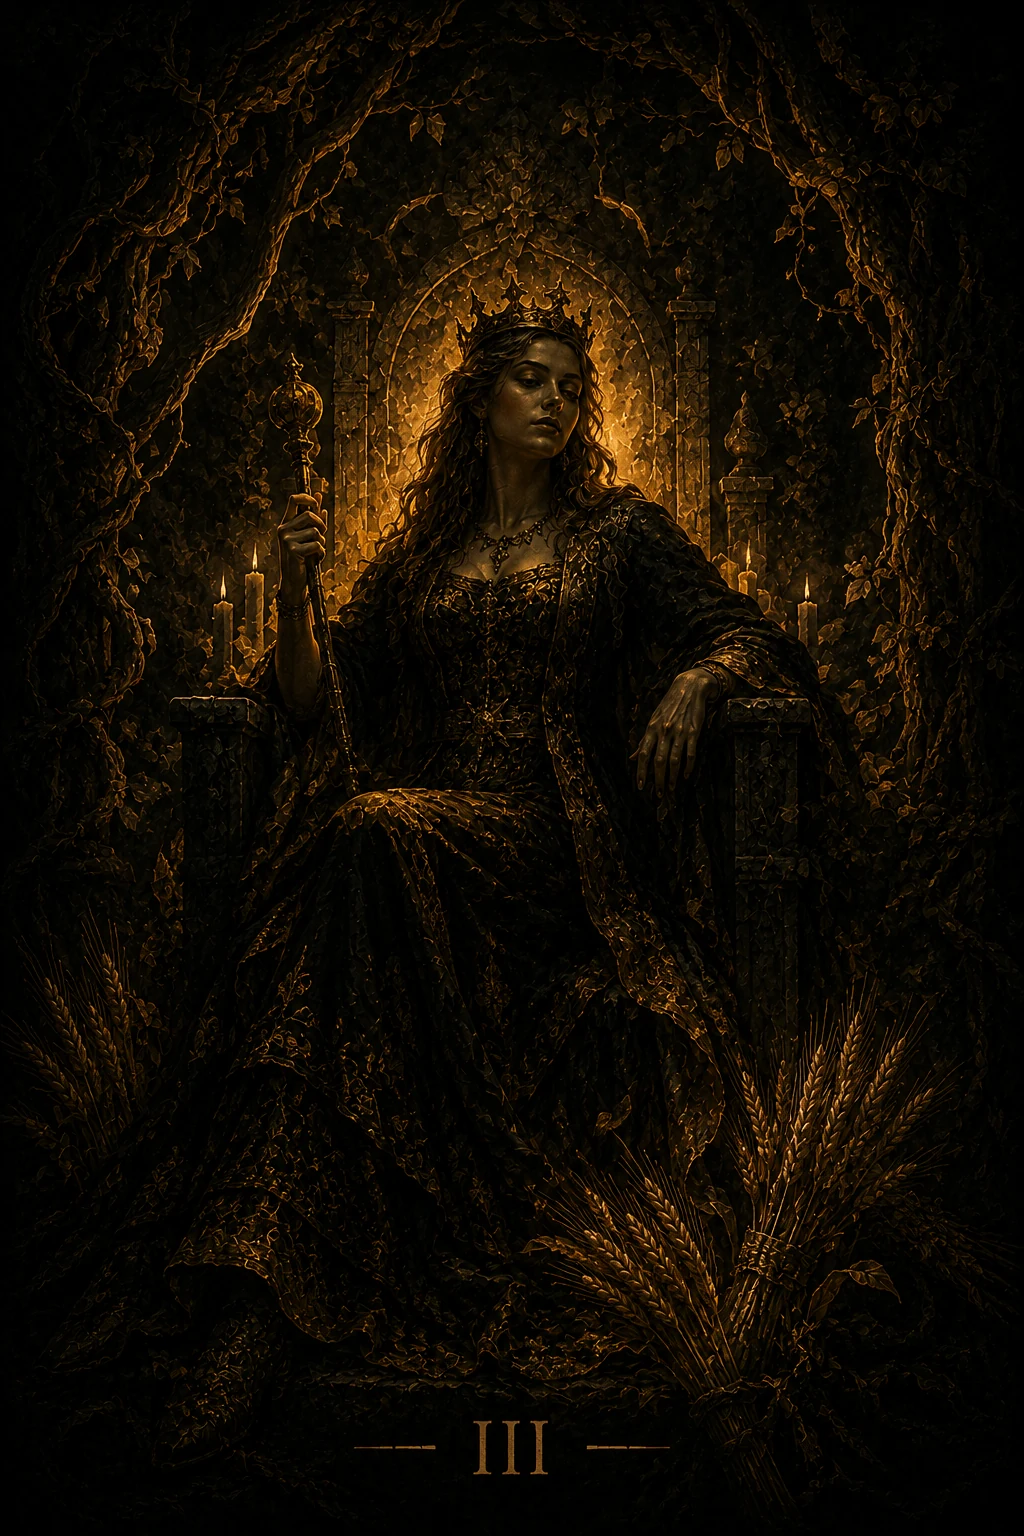
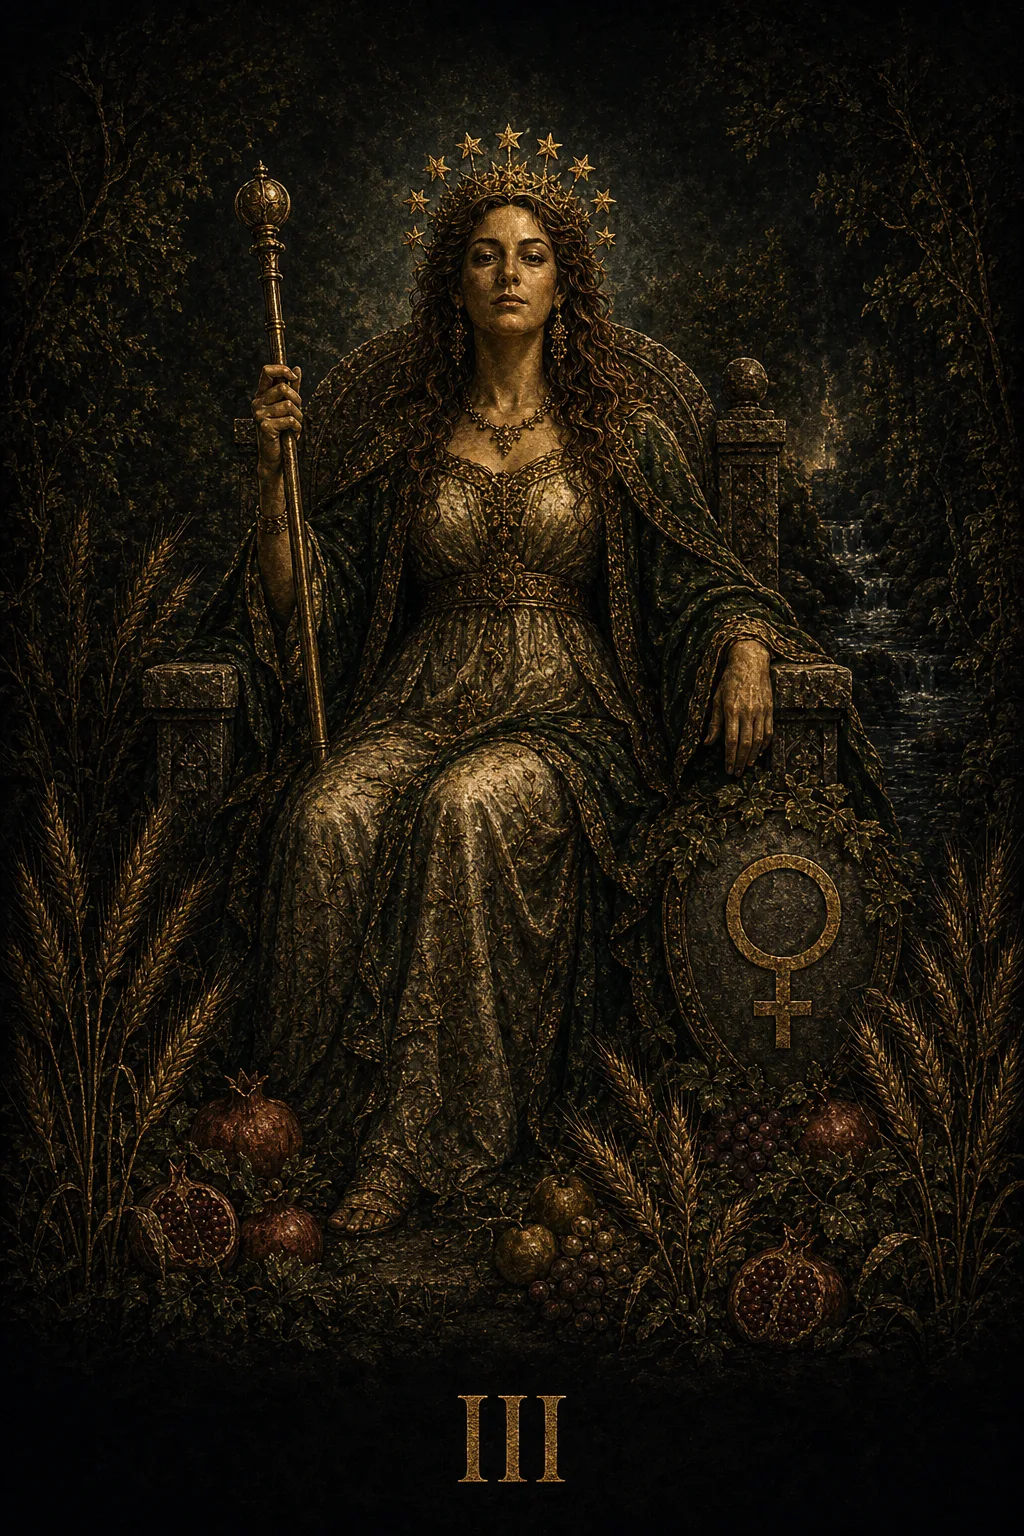
Add Seven of Pentacles and refresh Empress

diff --git a/public/assets/cards.js b/public/assets/cards.js
@@ -243,7 +243,7 @@ export const TAROT_CARDS = [
     name: 'Императрица',
     archetype: 'забота / изобилие',
     character: 'человек в окружении природы и тепла',
-    description: 'Позаботься о себе. Сегодня ресурс важнее скорости.',
+    description: 'Сегодня важнее не скорость, а живое состояние. Позаботься о теле, доме или деле так, чтобы у него снова появились силы расти.',
     streetName: 'Мамка ресурса',
     streetText: 'Ты чё себя так насилуешь. Тормозни, выдохни — ты не на зоне.',
     visualHint: 'природа, плоды, мягкие формы, тепло и изобилие',
@@ -254,45 +254,48 @@ export const TAROT_CARDS = [
     result: {
       label: 'Карта дня',
       title: 'Императрица',
-      titleMeta: 'день заботы, тепла и восстановления сил',
+      titleMeta: 'день заботы и живого ресурса',
       tags: ['Старший аркан'],
       meaningLabel: 'Что это значит сегодня',
       dayVariants: [
         {
           preview: [
-            'Мора говорит: сегодня не выжимай из себя последнее. Если ты устал, плохо ел, мало спал или давно живёшь на одном терпении, Императрица просит начать именно с этого.',
-            'Эта карта про простую заботу: поесть, отдохнуть, навести вокруг себя немного порядка, вернуть себе ощущение тепла. Не как награду за подвиг, а как нормальную человеческую необходимость.',
+            'На карте Императрица сидит среди природы, зрелых плодов и мягкого света. Её сила не в спешке и не в контроле, а в умении создавать условия, где жизнь может расти.',
+            'Мора советует сегодня начать с самого простого: тело, еда, сон, дом, тишина, тепло. Не как награду после подвига, а как основу, без которой дальше всё делается через силу.',
           ],
           full: [
-            'Мора говорит: сегодня не выжимай из себя последнее. Если ты устал, плохо ел, мало спал или давно живёшь на одном терпении, Императрица просит начать именно с этого.',
-            'Эта карта про простую заботу: поесть, отдохнуть, навести вокруг себя немного порядка, вернуть себе ощущение тепла. Не как награду за подвиг, а как нормальную человеческую необходимость.',
-            'В классическом таро Императрица сидит среди природы и зрелых плодов. Её сила не в том, чтобы всё контролировать, а в том, чтобы давать жизни расти.',
-            'Сегодня не обязательно ускоряться. Лучше спроси себя честно: что меня сейчас истощает, а что возвращает в живое состояние? Ответ может быть очень бытовым, и от этого не менее важным.',
+            'На карте Императрица сидит среди природы, зрелых плодов и мягкого света. Её сила не в спешке и не в контроле, а в умении создавать условия, где жизнь может расти.',
+            'Мора советует сегодня начать с самого простого: тело, еда, сон, дом, тишина, тепло. Не как награду после подвига, а как основу, без которой дальше всё делается через силу.',
+            'В классическом таро Императрица связана с землёй, плодородием и заботой, которая не торопит рост. Плод появляется не потому, что его заставили, а потому что у него были вода, свет и время.',
+            'Для тебя сегодня это значит: не выжимай из себя результат любой ценой. Посмотри, где тебе нужны нормальные условия, а не ещё один приказ самому себе собраться.',
           ],
+          share: 'Мора говорит: сегодня начни с живого состояния. Тело, дом, еда, сон и тепло — не награда, а основа.',
         },
         {
           preview: [
-            'Сегодня Императрица советует заняться тем, что делает жизнь теплее и устойчивее. Это может быть дом, еда, тело, близкий разговор или дело, которое давно ждёт спокойных рук.',
-            'Не всё важное выглядит как большой рывок. Иногда день становится лучше от простых вещей: прибрать стол, приготовить нормальный ужин, закончить маленькую часть работы без надрыва.',
+            'Императрица приходит в день, когда важное может просить не рывка, а ухода. Не всё растёт от давления; иногда дело оживает, когда ему дают внимание, место и спокойные руки.',
+            'Мора советует посмотреть, что рядом с тобой давно ждёт заботы: проект, тело, дом, отношения или маленькая часть жизни, которую ты всё время откладываешь на потом.',
           ],
           full: [
-            'Сегодня Императрица советует заняться тем, что делает жизнь теплее и устойчивее. Это может быть дом, еда, тело, близкий разговор или дело, которое давно ждёт спокойных рук.',
-            'Не всё важное выглядит как большой рывок. Иногда день становится лучше от простых вещей: прибрать стол, приготовить нормальный ужин, закончить маленькую часть работы без надрыва.',
-            'В канонах таро Императрица связана с землёй, плодородием и всем, что растёт не сразу, а постепенно. Она напоминает: то, чему ты даёшь внимание и заботу, со временем становится сильнее.',
-            'Мора бы сказала: не тяни росток за стебель. Сделай для него землю, воду и свет. В обычной жизни это значит — дай делу нормальные условия, а не только требуй от себя результата.',
+            'Императрица приходит в день, когда важное может просить не рывка, а ухода. Не всё растёт от давления; иногда дело оживает, когда ему дают внимание, место и спокойные руки.',
+            'Мора советует посмотреть, что рядом с тобой давно ждёт заботы: проект, тело, дом, отношения или маленькая часть жизни, которую ты всё время откладываешь на потом.',
+            'На классической карте вокруг Императрицы много земных символов: поле, плоды, мягкая ткань, спокойная полнота. Это не роскошь ради красоты, а знак среды, в которой появляется результат.',
+            'Сегодня полезно не требовать от ростка быть деревом. Сделай одну вещь, которая улучшит условия: убери лишнее, договорись мягче, приготовь нормальную еду, доделай маленький участок без надрыва.',
           ],
+          share: 'Мора советует: не требуй от ростка быть деревом. Сегодня дай важному нормальные условия для роста.',
         },
         {
           preview: [
-            'День может попросить от тебя мягкости: к себе, к близким, к человеку рядом, которому сейчас тяжело. Но Императрица не просит становиться спасателем для всех.',
-            'Мора считает: настоящая забота не должна оставлять тебя пустым. Помоги там, где можешь, но не отдавай последние силы только потому, что привык быть удобным.',
+            'Сегодня может понадобиться мягкость: к себе, к близкому человеку, к тому месту жизни, которое долго держалось на терпении. Но Императрица не просит тебя становиться бесконечным источником для всех.',
+            'Мора считает: настоящая забота не должна оставлять тебя пустым. Поддержи там, где можешь, но не отдавай последние силы только потому, что привык быть удобным.',
           ],
           full: [
-            'День может попросить от тебя мягкости: к себе, к близким, к человеку рядом, которому сейчас тяжело. Но Императрица не просит становиться спасателем для всех.',
-            'Мора считает: настоящая забота не должна оставлять тебя пустым. Помоги там, где можешь, но не отдавай последние силы только потому, что привык быть удобным.',
-            'Классическая Императрица — это не слабость и не бесконечная доброта без границ. Это взрослая сила, которая умеет питать жизнь и при этом знает цену своему ресурсу.',
-            'Сегодня можно поддержать словом, делом, присутствием. Но если внутри уже пусто, сначала верни себе опору. Из выжатого человека редко выходит тёплая помощь.',
+            'Сегодня может понадобиться мягкость: к себе, к близкому человеку, к тому месту жизни, которое долго держалось на терпении. Но Императрица не просит тебя становиться бесконечным источником для всех.',
+            'Мора считает: настоящая забота не должна оставлять тебя пустым. Поддержи там, где можешь, но не отдавай последние силы только потому, что привык быть удобным.',
+            'В канонах таро Императрица — это не слабость и не “быть хорошей для всех”. Это взрослая тёплая сила: она питает жизнь, но не уничтожает себя ради чужого роста.',
+            'Для тебя сегодня это значит: проверь, где забота идёт от сердца, а где уже стала обязанностью без конца. Иногда самый честный жест — помочь мягко, но оставить себе достаточно воздуха.',
           ],
+          share: 'Мора говорит: забота не должна оставлять тебя пустым. Сегодня помогай мягко, но оставь себе воздух.',
         },
       ],
       streetVariants: [
@@ -2218,6 +2221,84 @@ export const TAROT_CARDS = [
           'Кто тут всё время даёт, а кто только ждёт? Посмотри честно.',
           'Не надо быть жёстким. Но и кормить чужую привычку брать тоже не надо.',
           'Помощь должна помогать, а не делать из тебя банкомат.',
+        ],
+      ],
+    },
+  },
+  {
+    id: 'seven-of-pentacles',
+    name: 'Семёрка Пентаклей',
+    archetype: 'терпение / оценка результата',
+    character: 'садовник опирается на инструмент и смотрит на семь пентаклей на лозе',
+    description: 'Не торопи результат. Сегодня важно увидеть, что уже растёт, и понять, где нужно терпение, а где честная правка.',
+    streetName: 'Ждать урожай',
+    streetText: 'Не дёргай росток каждые пять минут. Посмотри, что уже выросло, и реши, куда дальше вкладываться.',
+    visualHint: 'садовник, длинный инструмент, семь пентаклей на лозе, пауза перед урожаем',
+    image: 'assets/cards/seven-of-pentacles.webp',
+    num: 'VII',
+    symbol: '◆',
+    result: {
+      label: 'Карта дня',
+      title: 'Семёрка Пентаклей',
+      titleMeta: 'день терпения и честной оценки',
+      tags: ['Младший аркан', 'Пентакли'],
+      meaningLabel: 'Что это значит сегодня',
+      dayVariants: [
+        {
+          preview: [
+            'Сегодня не стоит торопить результат. Семёрка Пентаклей показывает человека, который остановился перед растением с семью пентаклями и смотрит, что уже выросло из его труда.',
+            'Мора советует: не дёргай процесс только потому, что он ещё не дошёл до финала. Посмотри, где уже есть рост, и дай ему время стать зрелым.',
+          ],
+          full: [
+            'Сегодня не стоит торопить результат. Семёрка Пентаклей показывает человека, который остановился перед растением с семью пентаклями и смотрит, что уже выросло из его труда.',
+            'Мора советует: не дёргай процесс только потому, что он ещё не дошёл до финала. Посмотри, где уже есть рост, и дай ему время стать зрелым.',
+            'В классическом таро эта карта не про бездействие, а про паузу после вложенных усилий. Работник опирается на инструмент: он не бросил дело, он оценивает, что делать дальше.',
+            'Для тебя сегодня это значит: проверь, что требует терпения, а что действительно просит правки. Не всё медленное сломано. Иногда лучший шаг — не ускорять, а бережно поддержать то, что уже укоренилось.',
+          ],
+          share: 'Мора говорит: не всё медленное сломано. Сегодня посмотри, что уже растёт, и не торопи результат.',
+        },
+        {
+          preview: [
+            'Сегодня может появиться усталость от того, что ты давно вкладываешь силы, а отдача ещё не выглядит достаточно большой. Семёрка Пентаклей напоминает: рост часто виден позже, чем работа.',
+            'Мора считает, что день подходит для честной проверки. Что продолжать? Что подкормить вниманием? А где ты ждёшь плодов от того, во что уже перестал вкладываться?',
+          ],
+          full: [
+            'Сегодня может появиться усталость от того, что ты давно вкладываешь силы, а отдача ещё не выглядит достаточно большой. Семёрка Пентаклей напоминает: рост часто виден позже, чем работа.',
+            'Мора считает, что день подходит для честной проверки. Что продолжать? Что подкормить вниманием? А где ты ждёшь плодов от того, во что уже перестал вкладываться?',
+            'На карте человек стоит перед кустом с пентаклями и не делает резких движений. Он смотрит не на мечту, а на конкретный результат: сколько выросло, что держится, где ещё нужно время.',
+            'Сегодня полезно отделить усталость от настоящего сигнала остановиться. Если дело живое, не бросай его в момент тишины. Если оно давно не отвечает, признай это спокойно и забери силы обратно.',
+          ],
+          share: 'Мора советует: отдели усталость от настоящего сигнала. Сегодня проверь, что ещё живо, а что пора отпустить.',
+        },
+        {
+          preview: [
+            'Семёрка Пентаклей приходит в день, когда хочется получить ответ сразу, но карта просит смотреть глубже. Некоторые вещи нельзя вытащить из земли раньше срока без потерь.',
+            'Мора советует сегодня не мерить свой путь только быстрым результатом. Важнее понять, какие маленькие действия уже создают будущую опору.',
+          ],
+          full: [
+            'Семёрка Пентаклей приходит в день, когда хочется получить ответ сразу, но карта просит смотреть глубже. Некоторые вещи нельзя вытащить из земли раньше срока без потерь.',
+            'Мора советует сегодня не мерить свой путь только быстрым результатом. Важнее понять, какие маленькие действия уже создают будущую опору.',
+            'В канонах таро семь пентаклей на растении говорят о накопленном труде: это не случайная удача, а то, что появилось из повторения, заботы и терпения. Фигура рядом будто спрашивает: достаточно ли я сделал и куда теперь направить силы?',
+            'Для тебя сегодня это день тихой инвентаризации. Посмотри на привычки, проекты, отношения, тело, деньги. Где уже есть рост, который ты недооцениваешь? Где нужен один простой следующий уход, а не новая большая битва?',
+          ],
+          share: 'Мора говорит: быстрый результат не всегда главный знак. Сегодня заметь маленький рост, который уже создаёт опору.',
+        },
+      ],
+      streetVariants: [
+        [
+          'Не дёргай процесс только потому, что он не готов прямо сейчас.',
+          'Посмотри, что уже выросло, и дай этому дозреть.',
+          'Не всё медленное сломано.',
+        ],
+        [
+          'Устал ждать отдачи? Понимаю. Но сначала проверь, живое ли дело.',
+          'Если живое — не бросай в момент тишины.',
+          'Если давно не отвечает — забери силы обратно.',
+        ],
+        [
+          'Не выкапывай росток, чтобы проверить, растёт ли он.',
+          'Маленькие действия тоже строят опору.',
+          'Сегодня нужен уход, а не новая большая битва.',
         ],
       ],
     },

diff --git a/src/lib/tarot.ts b/src/lib/tarot.ts
@@ -33,8 +33,9 @@ export type TarotCardId =
   | 'two-of-swords'
   | 'four-of-swords'
   | 'two-of-pentacles'
-  | 'eight-of-pentacles'
   | 'six-of-pentacles'
+  | 'seven-of-pentacles'
+  | 'eight-of-pentacles'
   | 'two-of-wands'
   | 'three-of-wands'
   | 'four-of-wands'

diff --git a/src/app/qa/cards/qa-cards-browser.tsx b/src/app/qa/cards/qa-cards-browser.tsx
@@ -10,6 +10,7 @@ import {
 
 const FULL_TAROT_DECK_SIZE = 78
 const QA_RECENT_CARD_IDS = [
+  'seven-of-pentacles',
   'four-of-swords',
   'six-of-cups',
   'four-of-wands',

diff --git a/docs/decisions.md b/docs/decisions.md
@@ -6,6 +6,36 @@
 
 ---
 
+## 2026-06-13 — Императрица обновлена по визуалу и текстам
+
+**Что:** `empress` / «Императрица» обновлена без изменения ID, `num`, `symbol` и механики: WebP и PNG fallback заменены на новый утверждённый визуал 1024×1536, `description`, `titleMeta` и три `dayVariants` переведены в утверждённый формат `preview/full/share`.
+
+**Почему:** Старый визуал подходил по тёмному Mora-тону, но считывался скорее как “тёмная королева”, чем каноническая Императрица. Новый вариант сохраняет Rider-Waite-Smith-символы: сидящая фигура на троне, корона из звёзд, скипетр, пшеница/плоды, вода и символ Венеры. Отдельно отработали визуальную иерархию, центрирование и взгляд, чтобы фигура была главным фокусом, а окружение поддерживало архетип, а не спорило с ним. Тексты делают карту share-ready и переводят её в daily-reading про живой ресурс, условия для роста и заботу без самоистощения.
+
+**Кто:** автор + агент.
+
+---
+
+## 2026-06-13 — Закреплён контраст главного архетипа внутри единой палитры колоды
+
+**Что:** В `docs/card-style.md` добавлено правило: новые карты должны сохранять единую Mora-палитру последних принятых карт — near-black, dark moss, charcoal, deep brown, aged bronze, antique gold и muted cream — но не схлопываться в один коричнево-зелёный тон. Главная фигура или объект должны отделяться от окружения value-контрастом: светлее лицо/руки/символы, rim light, негативное пространство или более светлая/холодная плоскость фона.
+
+**Почему:** При перегенерации Императрицы стало видно, что хорошая каноническая композиция может терять силу, если фигура и окружение одинаковы по тону. Последние принятые карты работают лучше, когда палитра единая, но смысловой объект читается сразу даже в миниатюре.
+
+**Кто:** автор + агент.
+
+---
+
+## 2026-06-13 — Добавлена Семёрка Пентаклей
+
+**Что:** В колоду Mora добавлена `seven-of-pentacles` / «Семёрка Пентаклей»: WebP-ассет 1024×1536 весом около 236 KB, карточная запись в `public/assets/cards.js`, ID в `src/lib/tarot.ts`, три утверждённых варианта `dayVariants` в формате `preview/full/share` и street-варианты для legacy street-mode. Карта добавлена в верх `/qa/cards` при сортировке “Сначала новые”.
+
+**Почему:** Семёрка Пентаклей расширяет масть Пентаклей сценарием терпения, оценки вложенного труда, медленного роста и решения, где продолжать уход, а где забрать силы обратно. Визуал принят автором после сверки с Rider-Waite-Smith: сохранены фигура работника, опора на инструмент, растение/лоза и ровно семь пентаклей как видимый результат вложенной работы.
+
+**Кто:** автор + агент.
+
+---
+
 ## 2026-06-13 — Продовые изменения обязательно коммитятся
 
 **Что:** Зафиксировано правило: если изменения уже задеплоены, запушены в production или используются как production preview, они должны быть закоммичены. Продовая функциональность не должна оставаться только в незакоммиченном рабочем дереве.

diff --git a/docs/card-style.md b/docs/card-style.md
@@ -52,6 +52,9 @@ After generation, compare the output against the canonical composition before op
 
 - Dark, almost black background with deep brown, green-black, charcoal, and smoky shadow.
 - Warm antique gold is the main active color: rim light, symbols, halos, lightning, ornaments, small highlights.
+- The deck should feel unified in palette, but never monochrome. Recent accepted cards use a near-black / dark moss / charcoal base with antique-gold and muted-cream highlights; keep that family consistent across new generations.
+- Create visible value separation between the main figure/object and the environment. The subject needs a brighter face/hands/symbol area, a clear rim light, or a slightly lighter/cooler background plane behind it so it does not dissolve into robes, trees, ruins, smoke, or foliage.
+- Build a clear focal hierarchy. The viewer should know where to look first within one second: primary subject first, required symbols second, atmospheric detail third. Surrounding ornaments, plants, ruins, candles, smoke, and texture must stay quieter in contrast, sharpness, and brightness than the main figure or central object.
 - Painterly engraved texture: dense brushwork, cracked stone, worn metal, rough cloth, smoke, dust, sparks.
 - Cinematic chiaroscuro: most of the frame stays dark, meaning is revealed through one strong light source.
 - High detail, but not colorful noise. Details should support the archetype.
@@ -69,6 +72,7 @@ After generation, compare the output against the canonical composition before op
 - Use a centered or slightly off-center composition with strong silhouette readability.
 - Background should feel like a ritual space: stone, ruins, mountains, night sky, columns, forest, cave, temple, smoke, storm, or celestial void.
 - Add secondary symbols around the main subject, but keep them subordinate.
+- Prefer clean staging over evenly detailed scenes: leave pockets of negative space or simplified dark planes around the main silhouette. Detail is allowed, but it must not compete equally across the whole card.
 - The card should be readable at dashboard/recent-card thumbnail size.
 
 ### Characters
@@ -117,15 +121,18 @@ Light rules:
 
 - One dominant symbolic light source.
 - Gold light should reveal the meaning: halo, candle, lightning, portal, glowing object, reflected rim.
+- Keep 2-3 clear value levels: dark atmospheric background, mid-tone body/architecture, and brighter meaning-bearing highlights on the face, hands, required symbols, weapon/cup/coin/wand, or other central object.
+- If the card has a central character, the face, hands, crown, held object, and the immediate silhouette edge should be more legible than the surrounding environment.
 - Corners should remain dark or vignetted.
 - Do not make the whole card evenly bright.
+- Do not let the whole image collapse into one brown/green/gold tone; a unified deck palette still needs local contrast and readable focal hierarchy.
 
 ## Prompt Template
 
 Use this as the base and replace bracketed parts.
 
 ```text
-Dark ritual tarot card illustration for Mora, vertical 2:3 composition, [CARD NAME / ARCHETYPE], [MAIN SUBJECT AND POSE], [KEY SYMBOLS], ancient stone / smoke / night atmosphere, antique gold rim light, near-black charcoal and deep brown palette, dramatic chiaroscuro, painterly engraved texture, worn metal and cracked stone details, mystical but grounded, centered readable silhouette, ornate but restrained, antique-gold Roman numeral [NUMERAL] centered in the lower dark footer-marker zone, marker sized consistently with Mora queen-of-pentacles Q and six-of-swords VI, not tiny, marker center around 91-92% of image height with comfortable bottom margin, no card name text, no decorative frame or corner ornaments, no separate footer plaque, artwork bleeds to the edge, high detail, cinematic, solemn, old tarot deck mood
+Dark ritual tarot card illustration for Mora, vertical 2:3 composition, [CARD NAME / ARCHETYPE], [MAIN SUBJECT AND POSE], [KEY SYMBOLS], ancient stone / smoke / night atmosphere, unified Mora deck palette of near-black charcoal, dark moss, deep brown, aged bronze, antique gold, and muted cream highlights, strong value separation between the main subject and background, brighter face/hands/central symbols with antique-gold rim light, darker subordinate environment, dramatic chiaroscuro, painterly engraved texture, worn metal and cracked stone details, mystical but grounded, centered readable silhouette, ornate but restrained, antique-gold Roman numeral [NUMERAL] centered in the lower dark footer-marker zone, marker sized consistently with Mora queen-of-pentacles Q and six-of-swords VI, not tiny, marker center around 91-92% of image height with comfortable bottom margin, no card name text, no decorative frame or corner ornaments, no separate footer plaque, artwork bleeds to the edge, high detail, cinematic, solemn, old tarot deck mood
 ```
 
 Example:

diff --git a/PROJECT_CONTEXT.md b/PROJECT_CONTEXT.md
@@ -67,10 +67,10 @@ Working MVP:
 - dashboard with daily card and recent cards
 - dashboard recent cards open through the full-result reader with the saved/fallback reading text
 - journal with drawn card history, period filters, and visual outcome/note actions; full-result reader for journal entries is still WIP
-- deck currently has 43 cards: 22 major arcana and 21 minor/court cards
-- share-ready cards currently: `fool`, `magician`, `high-priestess`, `emperor`, `hierophant`, `lovers`, `chariot`, `two-of-cups`, `six-of-cups`, `page-of-cups`, `ace-of-swords`, `three-of-cups`, `four-of-swords`, `two-of-pentacles`, `six-of-pentacles`, `two-of-wands`, `four-of-wands`
-- latest card addition: `four-of-swords` / «Четвёрка Мечей»; approved visual preserves the Rider-Waite-Smith resting figure, three swords above, one sword below, chapel/resting slab composition, and translates pause/recovery into Mora's darker ritual style
-- latest old-card text/image update: `high-priestess` / «Жрица» in `preview/full/share`, with a regenerated canonical visual: B/J columns, pomegranate veil, scroll, lunar crown, crescent moon, and only `II` in the footer marker zone
+- deck currently has 44 cards: 22 major arcana and 22 minor/court cards
+- share-ready cards currently: `fool`, `magician`, `high-priestess`, `empress`, `emperor`, `hierophant`, `lovers`, `chariot`, `two-of-cups`, `six-of-cups`, `page-of-cups`, `ace-of-swords`, `three-of-cups`, `four-of-swords`, `two-of-pentacles`, `six-of-pentacles`, `seven-of-pentacles`, `two-of-wands`, `four-of-wands`
+- latest card addition: `seven-of-pentacles` / «Семёрка Пентаклей»; approved visual preserves the Rider-Waite-Smith worker leaning on a tool and looking at exactly seven pentacles on a plant, translating patient assessment and slow growth into Mora's darker ritual style
+- latest old-card text/image update: `empress` / «Императрица» in `preview/full/share`, with a regenerated canonical visual: centered seated Empress, twelve-star crown, scepter, wheat/fruit, water, Venus shield, clearer focal hierarchy, and only `III` in the footer marker zone
 - dashboard share icon works for today's share-ready card and uses the same Telegram-first/Web Share fallback as the fresh result screen
 - recent-card reader on dashboard is already implemented via `RecentCardsWidget` + `DashboardCardReader`; do not list it as a future task
 

diff --git a/docs/features.md b/docs/features.md
@@ -17,10 +17,10 @@
 - Карта вытягивается раз в день
 - Защита от повторного вытягивания — нельзя вытянуть второй раз в тот же день
 - Карта автоматически сохраняется в дневник
-- В колоде 43 карты: 22 старших аркана и 21 пилотная младшая/придворная карта
+- В колоде 44 карты: 22 старших аркана и 22 пилотные младшие/придворные карты
 - Уже вытянутую карту дня можно развернуть в full-result экран и вернуть назад shared-element анимацией
 - Шеринг свежевытянутой карты работает как Telegram-first flow: share-кнопка на result-screen, share-иконка сегодняшней карты на dashboard и share-кнопка в раскрытом full-result reader активны только при наличии утверждённого `dayVariants[n].share`, старые/неактуализированные варианты показывают disabled-иконку или не получают кнопку
-- Share-ready тексты есть у 17 карт: `fool`, `magician`, `high-priestess`, `emperor`, `hierophant`, `lovers`, `chariot`, `two-of-cups`, `six-of-cups`, `page-of-cups`, `ace-of-swords`, `three-of-cups`, `four-of-swords`, `two-of-pentacles`, `six-of-pentacles`, `two-of-wands`, `four-of-wands`
+- Share-ready тексты есть у 19 карт: `fool`, `magician`, `high-priestess`, `empress`, `emperor`, `hierophant`, `lovers`, `chariot`, `two-of-cups`, `six-of-cups`, `page-of-cups`, `ace-of-swords`, `three-of-cups`, `four-of-swords`, `two-of-pentacles`, `six-of-pentacles`, `seven-of-pentacles`, `two-of-wands`, `four-of-wands`
 
 ### Дневник карт (в личном кабинете)
 - История всех вытянутых карт по дням